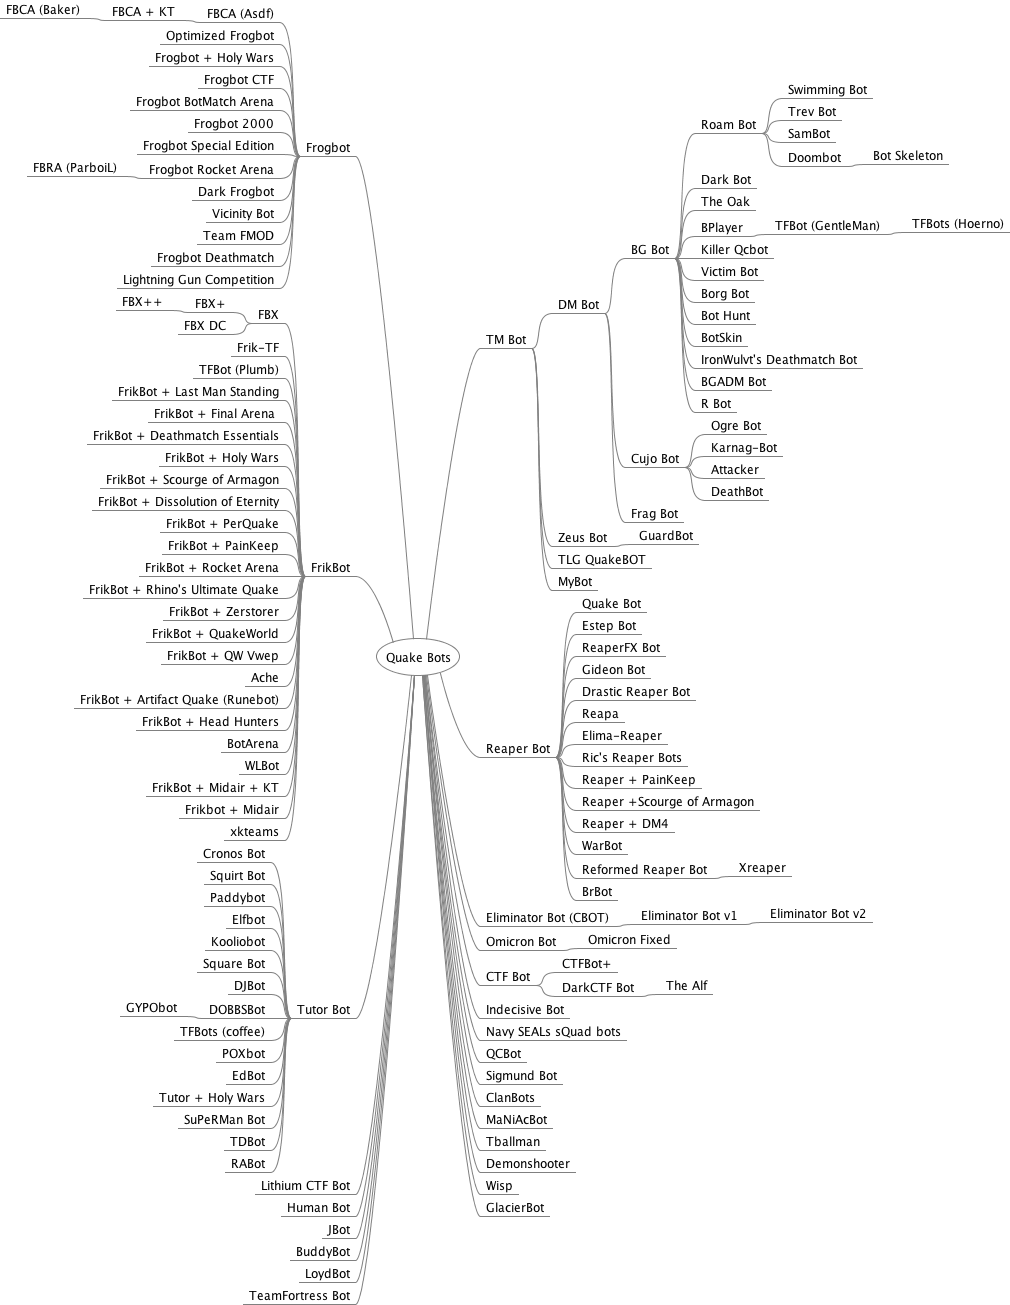
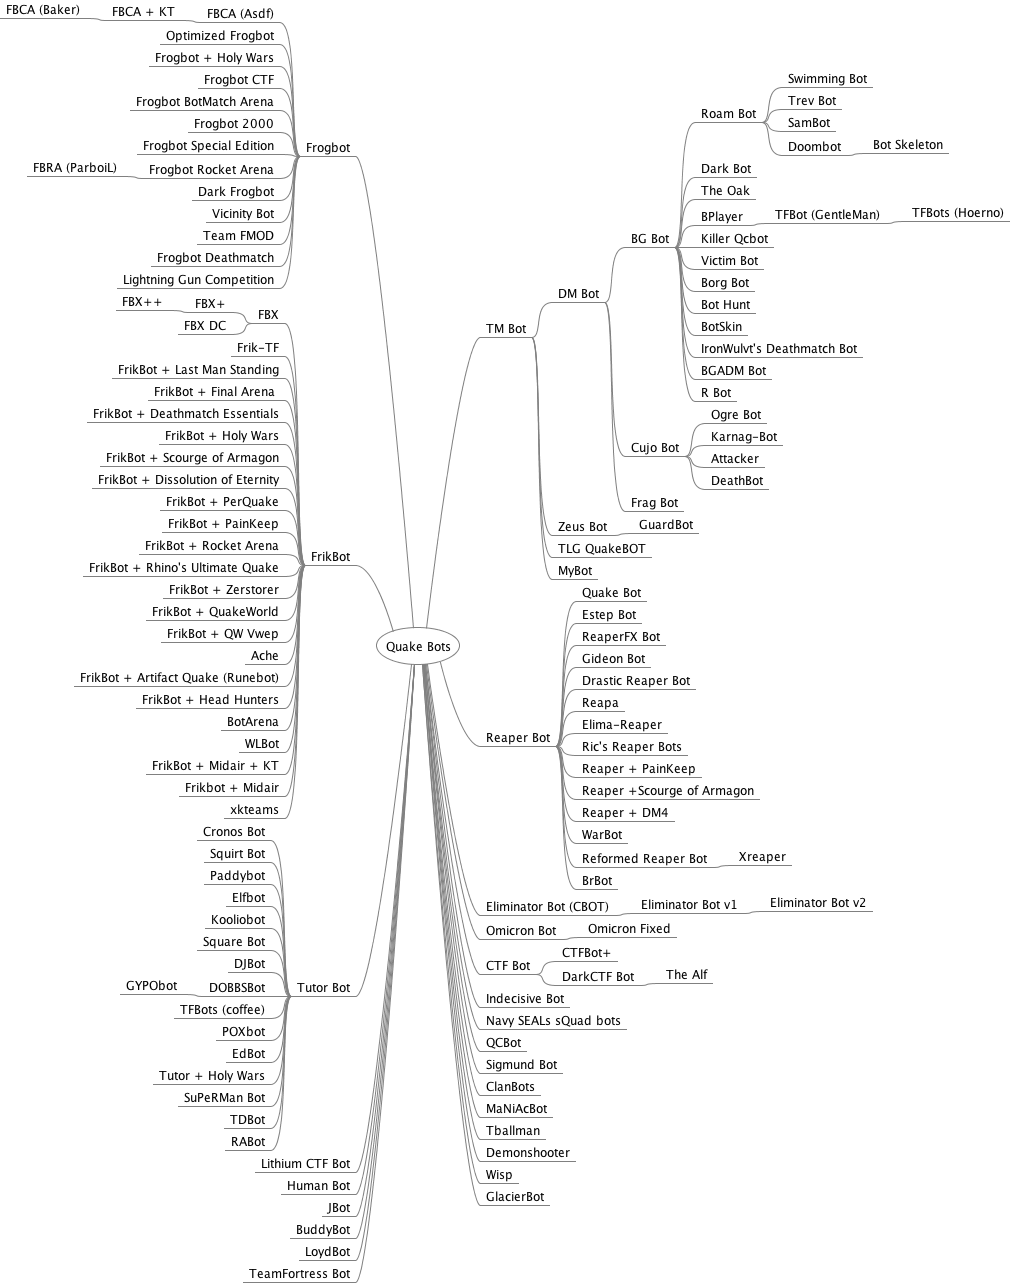
removed TFBot by plumb

diff --git a/mindmap/QuakeBots.mm b/mindmap/QuakeBots.mm
@@ -103,7 +103,6 @@
 <node CREATED="1623012256997" ID="ID_474755191" MODIFIED="1623012258885" TEXT="FBX DC"/>
 </node>
 <node CREATED="1623129429375" ID="ID_1113451154" MODIFIED="1623129430409" TEXT="Frik-TF"/>
-<node CREATED="1623185282790" ID="ID_436242790" MODIFIED="1623185296771" TEXT="TFBot (Plumb)"/>
 <node CREATED="1624058349710" ID="ID_440874600" MODIFIED="1624058351122" TEXT="FrikBot + Last Man Standing"/>
 <node CREATED="1624058665913" ID="ID_195635832" MODIFIED="1624058666859" TEXT="FrikBot + Final Arena "/>
 <node CREATED="1624058824545" ID="ID_1740608712" MODIFIED="1624058825542" TEXT="FrikBot + Deathmatch Essentials"/>

diff --git a/README.md b/README.md
@@ -134,7 +134,6 @@ TD2 Mech Bot | ? | [mech.zip](bin/mech.zip)
 Team FMOD | "Shelob" | stfm10.zip
 Team Fortress Bots | Darryl Atchison aka "coffee" | [tf_bots07.zip](bin/tf_bots07.zip)
 TeamFortress Bot | Valery Schedrin aka "Forthpick" | [teamfbot.zip](bin/teamfbot.zip)
-TFBot | "Plumb" | ?
 TFBots | Joern Strombach aka "Hoerno" | [tfbot080.zip](bin/tfbot080.zip)
 TFBots | Wolfgang Lehrach aka "GentleMan" | [tfbot077.zip](bin/tfbot077.zip) <br>[TFBot076.zip](bin/TFBot076.zip)<br>tfb-v07.zip
 The Alf | Bjorn-Erik Solli aka "Jack O. Trade" | nnctf.zip<br>nnsource.zip
